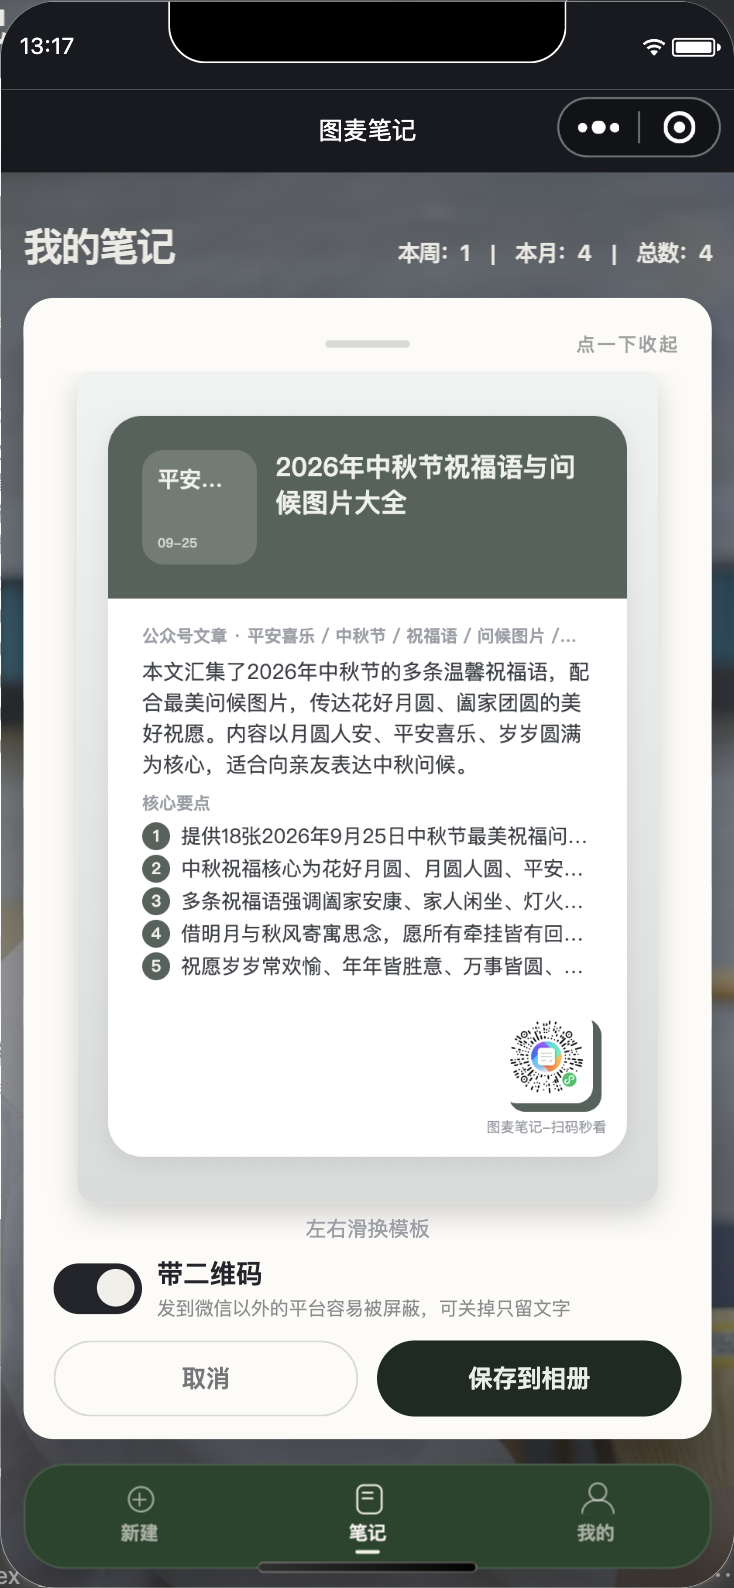
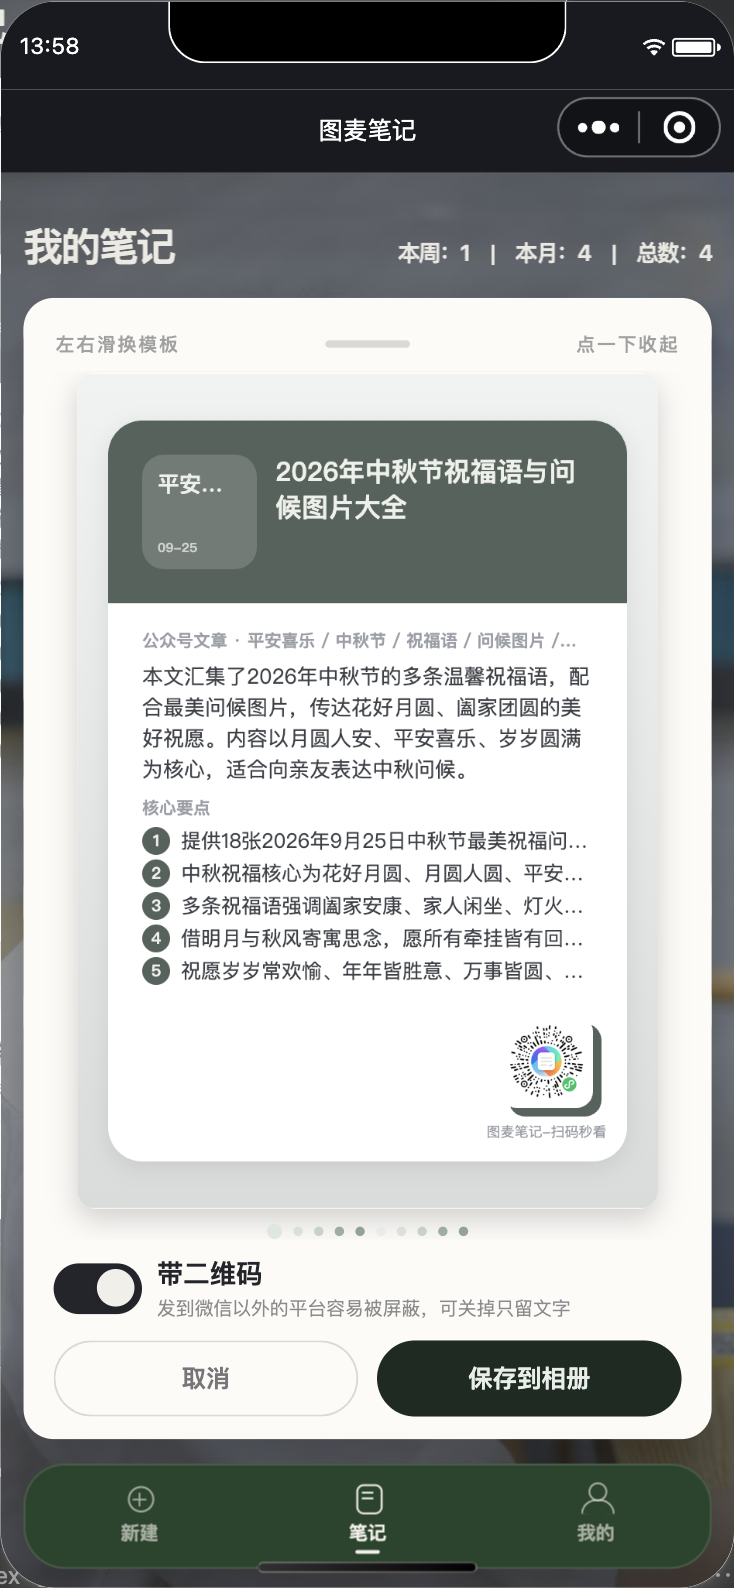
滑换提示挪到把手行左端，底部加一排模板圆点，版本 1.8.7
站长的原话："左右滑换模板，这几个字放在模板左上角，与点一下收起，对称。然后底部用
几个彩色小圆点示意一共多少个模板，目前滑到第几个（当前模板的小圆点，稍微大一点）。"

两句改成一行两端：左端只加 .grip-tx-l 这个变体（right:auto; left:34rpx），字号字重
颜色全继承同一条 .grip-tx——不是抄一份是同一份，以后改一处两句一起动。卡片下面那句
.tpl-swipe-hint 整块撤掉，wxml 与 wxss 都清了。

圆点吃同一套色板：tplIds 在弹窗打开那次 setData 里算好（toneColor 按序号取模），
所以停在淡雅那两枚上它自然是一族深浅绿，跟分类点同源。当前哪一枚由 wxml 现比
posterTpl，不在 js 里再维护一个下标——少一条会漏同步的状态。10rpx→16rpx 再加一档
淡（.55→1），十枚里才认得出。

两处坑记着：圆点那排必须 flex:none（.tpl-body 是 column flex，刚修完 §8.77 那条
压扁，同一个容器的第二个孩子漏了就又一起被夹）；_tplBoxRpx 预留高度 34→32，
这个数是卡片可视高的来源。

自证：尺子扩成量三件事（比例 + 圆点 + 两句对称），两套模板各量一遍，16 条全过。
判据自己也红过一轮：一开始判"十枚同一个 top"，可当前那枚大 6rpx，在
align-items:center 下 top 天然比别人小半个身位——那是判据错不是实现错，改成判同一根
中线才咬住真问题。回归：详情浮窗两层真跑全过，静态四把 23/54/60/89 全过。

diff --git a/docs/工具/验-卡片预览比例-真跑.js b/docs/工具/验-卡片预览比例-真跑.js
@@ -1,7 +1,9 @@
-// 模板预览弹窗里那张卡片的比例自证（模拟器 + 现网后端）。
+// 模板预览弹窗这一屏的几何自证（模拟器 + 现网后端）：卡片比例、底部圆点分页、把手行两句对称。
 // 为什么要有：09-30 站长真机截图打回——"卡片预览选择时候，变形了，要修正，比例不要改，
 // 展示要看实际比例"。变形的原因是展示框只按宽度算，高被 flex-shrink 与 max-height
 // 压回可视框，宽留着、高被挤，于是整张卡扁了。静态尺子看不出这个，必须量渲染出来的盒子。
+// 同一天追加的两条也在这里量：「左右滑换模板」挪到把手行左端、与「点一下收起」对称；
+// 卡片下面那一排彩色圆点要"几套模板就几枚、当前那枚大一点、且停在当前位置"。
 // 前置：微信开发者工具已开；改过 WXML/WXSS/JS 要先 cli close 再
 //   cli auto --project <仓库>/miniprogram --auto-port 9431，等十秒端口起来。
 // 跑法：NODE_PATH=/tmp/mpaauto/node_modules node docs/工具/验-卡片预览比例-真跑.js
@@ -26,7 +28,13 @@ const measure = (mp) => mp.evaluate(() => new Promise((resolve) => {
   const q = wx.createSelectorQuery()
   q.select('.tpl-body').boundingClientRect()
   q.select('.tpl-poster').boundingClientRect()
-  q.exec((res) => resolve({ body: res[0], box: res[1], windowWidth: wx.getWindowInfo().windowWidth }))
+  q.selectAll('.tpl-dot').boundingClientRect()
+  q.selectAll('.grip-tx').boundingClientRect()
+  q.select('.grip').boundingClientRect()
+  q.exec((res) => resolve({
+    body: res[0], box: res[1], dots: res[2] || [], gripTx: res[3] || [], grip: res[4],
+    windowWidth: wx.getWindowInfo().windowWidth,
+  }))
 }))
 
 const toRpx = (px, windowWidth) => px * 750 / windowWidth
@@ -114,6 +122,44 @@ const toRpx = (px, windowWidth) => px * 750 / windowWidth
       // 也不能小得离谱：短边至少占框的一半，否则"看实际比例"等于看不清
       ck(`第 ${round + 1} 套：缩得不过分`, Math.min(shown.w / 702, shown.h / toRpx(body.height, windowWidth)) > 0.5,
         `占宽 ${(shown.w / 702 * 100).toFixed(0)}%`)
+
+      /* ---------- 圆点分页：一共多少套、现在第几套 ---------- */
+      const m2 = await measure(mp)
+      const dots = m2.dots || []
+      ck(`第 ${round + 1} 套：底部圆点有几套模板就几枚`, dots.length === d.tplIds.length,
+        `${dots.length} 枚 / ${d.tplIds.length} 套`)
+      if (dots.length) {
+        const sizes = dots.map((x) => Math.round(x.width))
+        const big = sizes.indexOf(Math.max(...sizes))
+        const want = d.tplIds.findIndex((x) => x.id === d.posterTpl)
+        ck(`第 ${round + 1} 套：当前那一枚确实比其他大一点`,
+          sizes[big] - Math.max(...sizes.filter((_, i) => i !== big)) >= 3,
+          `各枚 ${sizes.join(',')}`)
+        ck(`第 ${round + 1} 套：大的那枚停在当前模板的位置`, big === want, `第 ${big + 1} 枚 / 应在第 ${want + 1} 枚`)
+        // 判据取"同一根中线"而不是"同一个 top"：这一行是 align-items:center，
+        // 当前那枚大 6rpx，top  naturally 会比别人小半个身位——按 top 判会永远红。
+        const mid = dots.map((x) => Math.round(x.top + x.height / 2))
+        ck(`第 ${round + 1} 套：十枚排在同一根中线上（没有错位或掉行）`,
+          Math.max(...mid) - Math.min(...mid) <= 1, `中线 ${mid.join(',')}`)
+      }
+
+      /* ---------- 「左右滑换模板」挪到把手行左端，与「点一下收起」对称 ---------- */
+      const gt = m2.gripTx || []
+      ck('第 1 句提示挪到了把手行：这一行有两个文本', gt.length === 2, `读到 ${gt.length} 个`)
+      if (gt.length === 2 && m2.grip) {
+        const [L, R] = gt
+        const edge = 34 * windowWidth / 750   // 样式里那 34rpx 折回 px
+        ck('两句在同一行、同一顶边、同一高度',
+          Math.abs(L.top - R.top) < 1 && Math.abs(L.height - R.height) < 1,
+          `top ${Math.round(L.top)}/${Math.round(R.top)} 高 ${Math.round(L.height)}/${Math.round(R.height)}`)
+        ck('左右各留 34rpx，两句真的对称',
+          Math.abs(L.left - (m2.grip.left + edge)) < 2
+          && Math.abs((m2.grip.left + m2.grip.width - edge) - (R.left + R.width)) < 2,
+          `左距 ${Math.round(L.left - m2.grip.left)}px 右距 ${Math.round(m2.grip.left + m2.grip.width - R.left - R.width)}px`)
+        ck('两句都在把手行里、没压到把手上',
+          L.top >= m2.grip.top - 1 && L.top + L.height <= m2.grip.top + m2.grip.height + 1)
+      }
+      ck('卡片下面那句旧提示已经撤掉', !(await page.$('.tpl-swipe-hint')))
 
       await mp.screenshot({ path: path.join(OUT, `实测-卡片预览比例-${d.posterTpl || round}.png`) })
       if (round === 0) {

diff --git a/miniprogram/pages/index/index.js b/miniprogram/pages/index/index.js
@@ -1,6 +1,6 @@
 const api = require('../../utils/api.js')
 const { t, texts } = require('../../utils/i18n.js')
-const { catSkinFor, chromeOf, toneVars, withAlpha } = require('../../utils/palette.js')
+const { catSkinFor, chromeOf, toneVars, toneColor, withAlpha } = require('../../utils/palette.js')
 const poster = require('../../utils/poster.js')
 const { isPrivate } = require('../../utils/privateGate.js')
 const { formatShortDate, formatDateTime } = require('../../utils/date.js')
@@ -55,6 +55,9 @@ Page({
     templateOpen: false,
     posterNote: null,
     posterTpl: '',
+    // 弹窗底部那一排圆点：每套模板一枚，颜色吃分类那同一套色板（toneColor），
+    // 谁被选中由 wxml 现比 posterTpl，所以换模板时不用再 setData 一次这个数组。
+    tplIds: [],
     posterImagePath: '',
     posterW: 750,
     posterH: 900,
@@ -470,6 +473,7 @@ Page({
       templateOpen: true,
       posterNote: note,
       posterTpl: profile.template || poster.DEFAULT_TEMPLATE,
+      tplIds: poster.TEMPLATES.map((x, i) => ({ id: x.id, color: toneColor(i) })),
       posterImagePath: '',
       posterBusy: true,
       noQr: false,
@@ -528,8 +532,8 @@ Page({
     })
     if (!rect || !rect.width || !rect.height) return null
     const toRpx = (px) => px * 750 / wx.getWindowInfo().windowWidth
-    // 左右各 24rpx 的 padding，和下面那条"左右滑换模板"的提示（12 上间距 + 22 字高）
-    return { w: Math.round(toRpx(rect.width)) - 48, h: Math.round(toRpx(rect.height)) - 34 }
+    // 左右各 24rpx 的 padding，和下面那一排圆点（16 上间距 + 16 当前那枚的直径）
+    return { w: Math.round(toRpx(rect.width)) - 48, h: Math.round(toRpx(rect.height)) - 32 }
   },
 
   // 与 share.js render() 同一套：先量后画、canvas 尺寸切两次、paintLayers 落笔、canvasToTempFilePath 出成品。

diff --git a/miniprogram/pages/about/about.js b/miniprogram/pages/about/about.js
@@ -8,7 +8,7 @@ const OFFICIAL_ACCOUNT = '杰克AI日记'
 const SITE = 'agentsbin.cn'
 // 出包时三个地方必须是这一个数：关于页显示的、`cli upload --version` 填的、后台开发版本列的。
 // 踩过三次（都是上传完才想起来改），所以改号只改这一行，`验-关于页版本号.js` 直接读这里当期望值。
-const VERSION = '1.8.6'
+const VERSION = '1.8.7'
 
 // 每条都写清"做什么"和"什么情况下做不到"。宁可写边界，不堆形容词：
 // 这些句子最后都要能拿代码对上，读者照着做不会撞墙。
